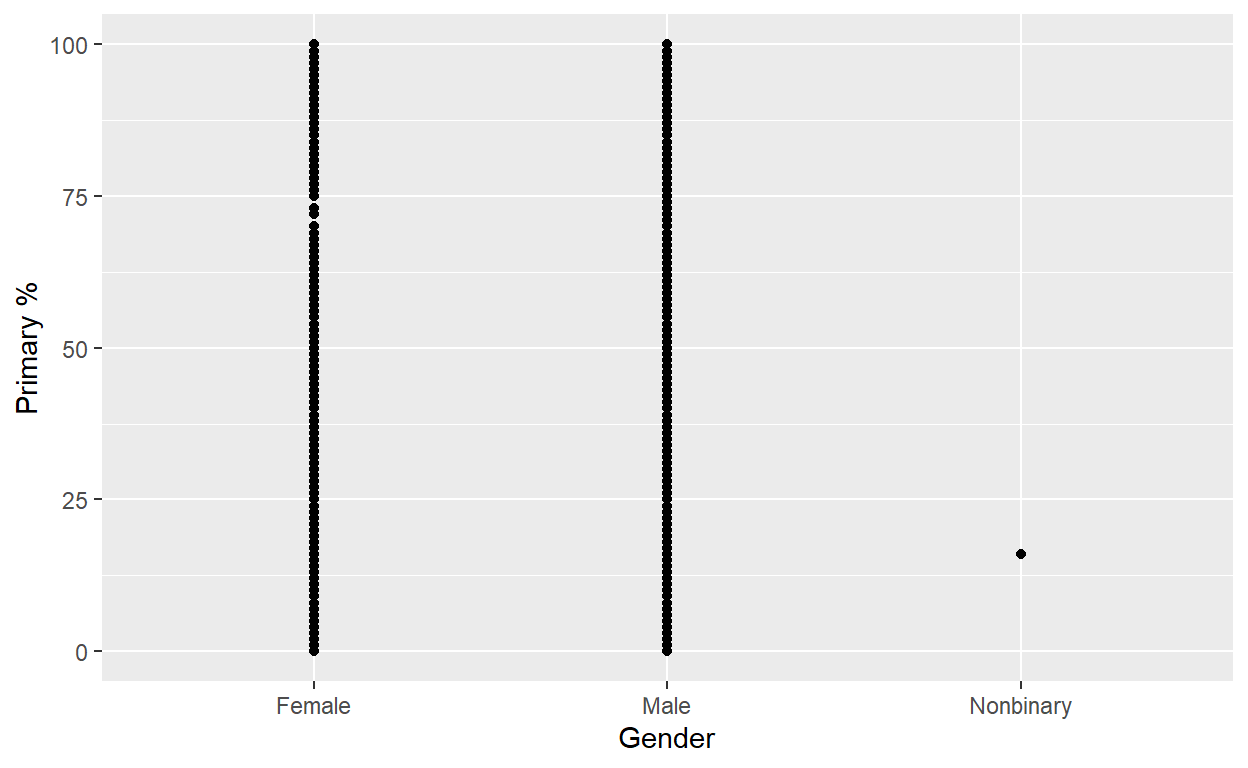
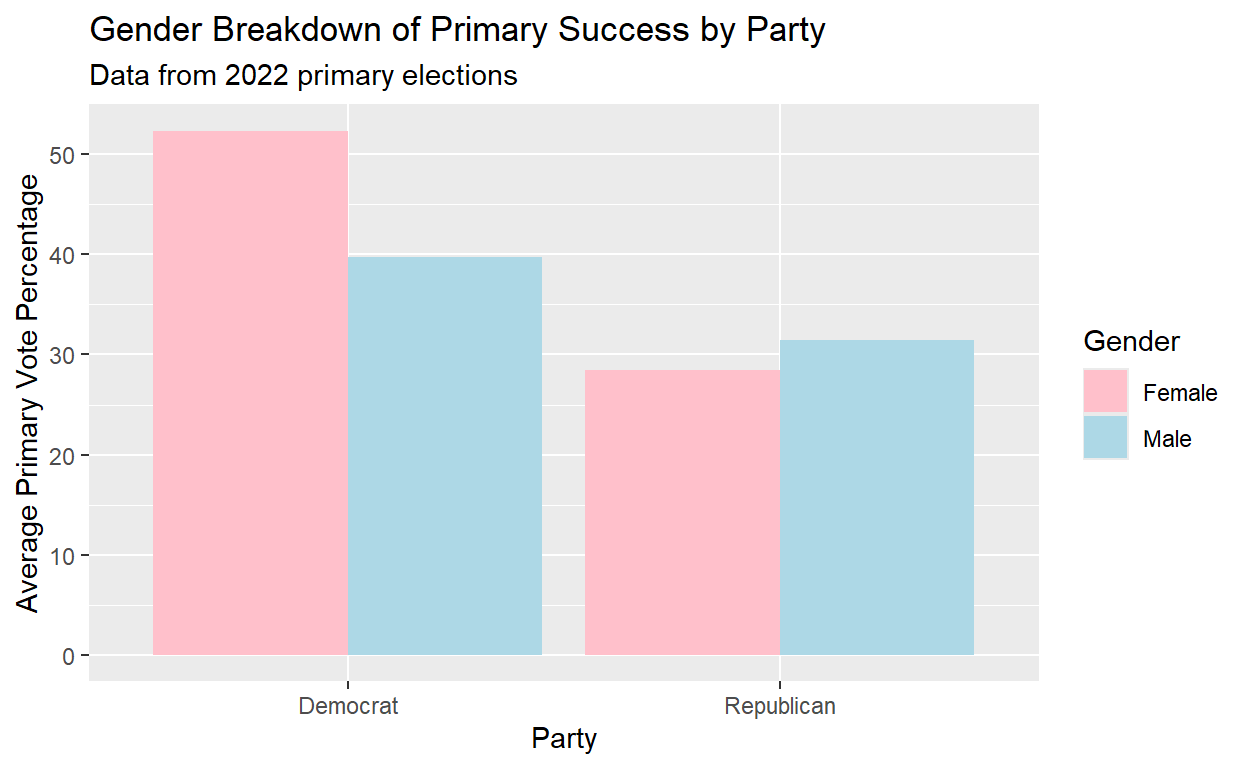
milestone 4

diff --git a/index.html b/index.html
@@ -1550,7 +1550,11 @@ code span.wa { color: #5e5e5e; font-style: italic; } /* Warning */
 <div class="layout-chunk" data-layout="l-body">
 <div class="sourceCode">
 <pre class="sourceCode r"><code class="sourceCode r"><span><span class='kw'><a href='https://rdrr.io/r/base/library.html'>library</a></span><span class='op'>(</span><span class='va'><a href='https://tidyverse.tidyverse.org'>tidyverse</a></span><span class='op'>)</span></span>
-<span><span class='kw'><a href='https://rdrr.io/r/base/library.html'>library</a></span><span class='op'>(</span><span class='va'><a href='https://readr.tidyverse.org'>readr</a></span><span class='op'>)</span></span></code></pre>
+<span><span class='kw'><a href='https://rdrr.io/r/base/library.html'>library</a></span><span class='op'>(</span><span class='va'><a href='https://readr.tidyverse.org'>readr</a></span><span class='op'>)</span></span>
+<span><span class='kw'><a href='https://rdrr.io/r/base/library.html'>library</a></span><span class='op'>(</span><span class='va'><a href='https://broom.tidymodels.org/'>broom</a></span><span class='op'>)</span></span>
+<span><span class='kw'><a href='https://rdrr.io/r/base/library.html'>library</a></span><span class='op'>(</span><span class='va'><a href='https://dplyr.tidyverse.org'>dplyr</a></span><span class='op'>)</span></span>
+<span><span class='kw'><a href='https://rdrr.io/r/base/library.html'>library</a></span><span class='op'>(</span><span class='va'><a href='https://tidyr.tidyverse.org'>tidyr</a></span><span class='op'>)</span></span>
+<span><span class='kw'><a href='https://rdrr.io/r/base/library.html'>library</a></span><span class='op'>(</span><span class='va'><a href='https://yihui.org/knitr/'>knitr</a></span><span class='op'>)</span></span></code></pre>
 </div>
 </div>
 <div class="layout-chunk" data-layout="l-body">
@@ -1635,11 +1639,12 @@ $ `Winning for Women`    &lt;chr&gt; &quot;N/A&quot;, &quot;N/A&quot;, &quot;N/A
 <span>   <span class='fu'><a href='https://dplyr.tidyverse.org/reference/mutate.html'>mutate</a></span><span class='op'>(</span>Party <span class='op'>=</span> <span class='fu'><a href='https://dplyr.tidyverse.org/reference/if_else.html'>if_else</a></span><span class='op'>(</span><span class='va'>Party</span> <span class='op'>==</span> <span class='fl'>1</span>, <span class='st'>"Democrat"</span>, <span class='st'>"Republican"</span><span class='op'>)</span><span class='op'>)</span></span>
 <span></span>
 <span><span class='va'>elections</span> <span class='op'>&lt;-</span> <span class='va'>elections</span> <span class='op'>|&gt;</span></span>
-<span>  <span class='fu'><a href='https://dplyr.tidyverse.org/reference/mutate.html'>mutate</a></span><span class='op'>(</span>`Primary %` <span class='op'>=</span> <span class='fu'><a href='https://readr.tidyverse.org/reference/parse_number.html'>parse_number</a></span><span class='op'>(</span><span class='va'>`Primary %`</span><span class='op'>)</span><span class='op'>)</span></span>
+<span>  <span class='fu'><a href='https://dplyr.tidyverse.org/reference/mutate.html'>mutate</a></span><span class='op'>(</span>`Primary %` <span class='op'>=</span> <span class='fu'><a href='https://readr.tidyverse.org/reference/parse_number.html'>parse_number</a></span><span class='op'>(</span><span class='va'>`Primary %`</span><span class='op'>)</span><span class='op'>)</span> <span class='op'>|&gt;</span></span>
+<span>  <span class='fu'><a href='https://dplyr.tidyverse.org/reference/filter.html'>filter</a></span><span class='op'>(</span><span class='va'>Gender</span> <span class='op'>!=</span> <span class='st'>"Nonbinary"</span><span class='op'>)</span></span>
 <span></span>
 <span><span class='fu'><a href='https://pillar.r-lib.org/reference/glimpse.html'>glimpse</a></span><span class='op'>(</span><span class='va'>elections</span><span class='op'>)</span></span></code></pre>
 </div>
-<pre><code>Rows: 2,676
+<pre><code>Rows: 2,675
 Columns: 9
 $ Candidate         &lt;chr&gt; &quot;Gavin Dass&quot;, &quot;Victor D. Dunn&quot;, &quot;Jrmar \&quot;J…
 $ Party             &lt;chr&gt; &quot;Democrat&quot;, &quot;Democrat&quot;, &quot;Democrat&quot;, &quot;Democ…
@@ -1658,17 +1663,92 @@ $ `Runoff %`        &lt;chr&gt; &quot;N/A&quot;, &quot;24%&quot;, &quot;76%&quot
 <span>           <span class='fu'><a href='https://dplyr.tidyverse.org/reference/summarise.html'>summarise</a></span><span class='op'>(</span>avg_primary <span class='op'>=</span> <span class='fu'><a href='https://rdrr.io/r/base/mean.html'>mean</a></span><span class='op'>(</span><span class='va'>`Primary %`</span>, na.rm <span class='op'>=</span> <span class='cn'>TRUE</span><span class='op'>)</span><span class='op'>)</span> <span class='op'>|&gt;</span></span>
 <span>  <span class='fu'><a href='https://ggplot2.tidyverse.org/reference/ggplot.html'>ggplot</a></span><span class='op'>(</span><span class='fu'><a href='https://ggplot2.tidyverse.org/reference/aes.html'>aes</a></span><span class='op'>(</span>x <span class='op'>=</span> <span class='va'>Party</span>, y <span class='op'>=</span> <span class='va'>avg_primary</span>, fill <span class='op'>=</span> <span class='va'>Gender</span><span class='op'>)</span><span class='op'>)</span> <span class='op'>+</span> </span>
 <span>  <span class='fu'><a href='https://ggplot2.tidyverse.org/reference/geom_bar.html'>geom_col</a></span><span class='op'>(</span>position <span class='op'>=</span> <span class='st'>"dodge"</span><span class='op'>)</span> <span class='op'>+</span></span>
-<span>  <span class='fu'><a href='https://ggplot2.tidyverse.org/reference/scale_manual.html'>scale_fill_manual</a></span><span class='op'>(</span>values <span class='op'>=</span> <span class='fu'><a href='https://rdrr.io/r/base/c.html'>c</a></span><span class='op'>(</span><span class='st'>"Female"</span> <span class='op'>=</span> <span class='st'>"pink"</span>, <span class='st'>"Male"</span> <span class='op'>=</span> <span class='st'>"lightblue"</span>, <span class='st'>"Nonbinary"</span> <span class='op'>=</span> <span class='st'>"violet"</span><span class='op'>)</span><span class='op'>)</span> <span class='op'>+</span></span>
+<span>  <span class='fu'><a href='https://ggplot2.tidyverse.org/reference/scale_manual.html'>scale_fill_manual</a></span><span class='op'>(</span>values <span class='op'>=</span> <span class='fu'><a href='https://rdrr.io/r/base/c.html'>c</a></span><span class='op'>(</span><span class='st'>"Female"</span> <span class='op'>=</span> <span class='st'>"pink"</span>, <span class='st'>"Male"</span> <span class='op'>=</span> <span class='st'>"lightblue"</span><span class='op'>)</span><span class='op'>)</span> <span class='op'>+</span></span>
 <span>  <span class='fu'><a href='https://ggplot2.tidyverse.org/reference/labs.html'>labs</a></span><span class='op'>(</span>x <span class='op'>=</span> <span class='st'>"Party"</span>, y <span class='op'>=</span> <span class='st'>"Average Primary Vote Percentage"</span>, </span>
 <span>       title <span class='op'>=</span> <span class='st'>"Gender Breakdown of Primary Success by Party"</span>, </span>
 <span>       subtitle <span class='op'>=</span> <span class='st'>"Data from 2022 primary elections"</span><span class='op'>)</span></span>
 <span></span>
 <span><span class='va'>party_gender_success</span></span></code></pre>
 </div>
-<p><img src="index_files/figure-html5/unnamed-chunk-5-1.png" alt="" width="624" /></p>
+<p><img src="index_files/figure-html5/unnamed-chunk-3-1.png" alt="" width="624" /></p>
 </div>
 <p>This graph demonstrates primary success based on gender within the two main political parties. The average Democratic vote percentage for female candidates is just over 50%, whereas female Republicans only got an average of under 30% in their elections. Female candidates in Democratic primaries saw greater success than those in Republican primaries.</p>
-<div class="sourceCode" id="cb4"><pre class="sourceCode r distill-force-highlighting-css"><code class="sourceCode r"></code></pre></div>
+<h2 id="regression">Regression</h2>
+<div class="layout-chunk" data-layout="l-body">
+<div class="sourceCode">
+<pre class="sourceCode r"><code class="sourceCode r"><span><span class='va'>dem_elections</span> <span class='op'>&lt;-</span> <span class='va'>elections</span> <span class='op'>|&gt;</span></span>
+<span>  <span class='fu'><a href='https://dplyr.tidyverse.org/reference/filter.html'>filter</a></span><span class='op'>(</span><span class='va'>Party</span> <span class='op'>==</span> <span class='st'>"Democrat"</span><span class='op'>)</span></span>
+<span></span>
+<span><span class='va'>rep_elections</span> <span class='op'>&lt;-</span> <span class='va'>elections</span> <span class='op'>|&gt;</span></span>
+<span>  <span class='fu'><a href='https://dplyr.tidyverse.org/reference/filter.html'>filter</a></span><span class='op'>(</span><span class='va'>Party</span> <span class='op'>==</span> <span class='st'>"Republican"</span><span class='op'>)</span></span></code></pre>
+</div>
+</div>
+<div class="layout-chunk" data-layout="l-body">
+<div class="sourceCode">
+<pre class="sourceCode r"><code class="sourceCode r"><span><span class='va'>dem_fit</span> <span class='op'>&lt;-</span> <span class='fu'><a href='https://rdrr.io/r/stats/lm.html'>lm</a></span><span class='op'>(</span><span class='va'>`Primary %`</span> <span class='op'>~</span> <span class='va'>Gender</span>, data <span class='op'>=</span> <span class='va'>dem_elections</span><span class='op'>)</span></span>
+<span></span>
+<span><span class='va'>rep_fit</span> <span class='op'>&lt;-</span> <span class='fu'><a href='https://rdrr.io/r/stats/lm.html'>lm</a></span><span class='op'>(</span><span class='va'>`Primary %`</span> <span class='op'>~</span> <span class='va'>Gender</span>, data <span class='op'>=</span> <span class='va'>rep_elections</span><span class='op'>)</span></span></code></pre>
+</div>
+</div>
+<div class="layout-chunk" data-layout="l-body">
+<div class="sourceCode">
+<pre class="sourceCode r"><code class="sourceCode r"><span><span class='va'>dem_table</span> <span class='op'>&lt;-</span> <span class='fu'><a href='https://generics.r-lib.org/reference/tidy.html'>tidy</a></span><span class='op'>(</span><span class='va'>dem_fit</span><span class='op'>)</span> <span class='op'>|&gt;</span> <span class='fu'><a href='https://dplyr.tidyverse.org/reference/mutate.html'>mutate</a></span><span class='op'>(</span>model <span class='op'>=</span> <span class='st'>"Dem"</span><span class='op'>)</span></span>
+<span><span class='va'>rep_table</span> <span class='op'>&lt;-</span> <span class='fu'><a href='https://generics.r-lib.org/reference/tidy.html'>tidy</a></span><span class='op'>(</span><span class='va'>rep_fit</span><span class='op'>)</span> <span class='op'>|&gt;</span> <span class='fu'><a href='https://dplyr.tidyverse.org/reference/mutate.html'>mutate</a></span><span class='op'>(</span>model <span class='op'>=</span> <span class='st'>"Rep"</span><span class='op'>)</span></span>
+<span></span>
+<span><span class='va'>dem_table</span> <span class='op'>|&gt;</span></span>
+<span>  <span class='fu'><a href='https://dplyr.tidyverse.org/reference/select.html'>select</a></span><span class='op'>(</span><span class='va'>term</span>, <span class='va'>estimate</span><span class='op'>)</span> <span class='op'>|&gt;</span></span>
+<span>  <span class='fu'><a href='https://tidyr.tidyverse.org/reference/pivot_wider.html'>pivot_wider</a></span><span class='op'>(</span>names_from <span class='op'>=</span> <span class='va'>term</span>, values_from <span class='op'>=</span> <span class='va'>estimate</span><span class='op'>)</span></span></code></pre>
+</div>
+<pre><code># A tibble: 1 × 2
+  `(Intercept)` GenderMale
+          &lt;dbl&gt;      &lt;dbl&gt;
+1          52.3      -12.6</code></pre>
+<div class="sourceCode">
+<pre class="sourceCode r"><code class="sourceCode r"><span><span class='va'>rep_table</span> <span class='op'>|&gt;</span></span>
+<span>  <span class='fu'><a href='https://dplyr.tidyverse.org/reference/select.html'>select</a></span><span class='op'>(</span><span class='va'>term</span>, <span class='va'>estimate</span><span class='op'>)</span> <span class='op'>|&gt;</span></span>
+<span>  <span class='fu'><a href='https://tidyr.tidyverse.org/reference/pivot_wider.html'>pivot_wider</a></span><span class='op'>(</span>names_from <span class='op'>=</span> <span class='va'>term</span>, values_from <span class='op'>=</span> <span class='va'>estimate</span><span class='op'>)</span></span></code></pre>
+</div>
+<pre><code># A tibble: 1 × 2
+  `(Intercept)` GenderMale
+          &lt;dbl&gt;      &lt;dbl&gt;
+1          28.4       2.97</code></pre>
+<div class="sourceCode">
+<pre class="sourceCode r"><code class="sourceCode r"><span><span class='va'>combined_table</span> <span class='op'>&lt;-</span> <span class='fu'><a href='https://dplyr.tidyverse.org/reference/bind_rows.html'>bind_rows</a></span><span class='op'>(</span><span class='va'>dem_table</span>, <span class='va'>rep_table</span><span class='op'>)</span></span>
+<span>  </span>
+<span><span class='va'>combined_table</span> <span class='op'>&lt;-</span> <span class='va'>combined_table</span> <span class='op'>|&gt;</span></span>
+<span>  <span class='fu'><a href='https://dplyr.tidyverse.org/reference/mutate.html'>mutate</a></span><span class='op'>(</span>term <span class='op'>=</span> <span class='fu'><a href='https://dplyr.tidyverse.org/reference/recode.html'>recode</a></span><span class='op'>(</span><span class='va'>term</span>,</span>
+<span>    <span class='st'>"(Intercept)"</span> <span class='op'>=</span> <span class='st'>"Baseline (Women)"</span>,</span>
+<span>    <span class='st'>"GenderMale"</span> <span class='op'>=</span> <span class='st'>"Male difference"</span><span class='op'>)</span><span class='op'>)</span> <span class='op'>|&gt;</span></span>
+<span>  <span class='fu'><a href='https://dplyr.tidyverse.org/reference/select.html'>select</a></span><span class='op'>(</span><span class='va'>model</span>, <span class='va'>term</span>, <span class='va'>estimate</span><span class='op'>)</span> <span class='op'>|&gt;</span></span>
+<span>  <span class='fu'><a href='https://tidyr.tidyverse.org/reference/pivot_wider.html'>pivot_wider</a></span><span class='op'>(</span>names_from <span class='op'>=</span> <span class='va'>model</span>, values_from <span class='op'>=</span> <span class='va'>estimate</span><span class='op'>)</span></span>
+<span></span>
+<span><span class='fu'>knitr</span><span class='fu'>::</span><span class='fu'><a href='https://rdrr.io/pkg/knitr/man/kable.html'>kable</a></span><span class='op'>(</span><span class='va'>combined_table</span>, digits <span class='op'>=</span> <span class='fl'>2</span>,</span>
+<span>             col.names <span class='op'>=</span> <span class='fu'><a href='https://rdrr.io/r/base/c.html'>c</a></span><span class='op'>(</span><span class='st'>"Term"</span>, <span class='st'>"Democrat"</span>, <span class='st'>"Republican"</span><span class='op'>)</span><span class='op'>)</span></span></code></pre>
+</div>
+<table>
+<thead>
+<tr class="header">
+<th style="text-align: left;">Term</th>
+<th style="text-align: right;">Democrat</th>
+<th style="text-align: right;">Republican</th>
+</tr>
+</thead>
+<tbody>
+<tr class="odd">
+<td style="text-align: left;">Baseline (Women)</td>
+<td style="text-align: right;">52.32</td>
+<td style="text-align: right;">28.42</td>
+</tr>
+<tr class="even">
+<td style="text-align: left;">Male difference</td>
+<td style="text-align: right;">-12.62</td>
+<td style="text-align: right;">2.97</td>
+</tr>
+</tbody>
+</table>
+</div>
+<p>The table displays the relationship between gender and primary election results for democrats and republicans. The average female democrat got 52.32% of the votes in their primary election, and on average male candidates got 12.62 percentage points less votes. On the other hand, republican female candidates got on average 28.42% of the votes, and the average male candidates got 2.97 percentage points of votes in their primary elections. This supports my hypothesis as it demonstrates because democrat women are more successful in their primaries than republican women compared to the men in their respective parties.</p>
+<div class="sourceCode" id="cb6"><pre class="sourceCode r distill-force-highlighting-css"><code class="sourceCode r"></code></pre></div>
 <!--radix_placeholder_article_footer-->
 <!--/radix_placeholder_article_footer-->
 </div>
